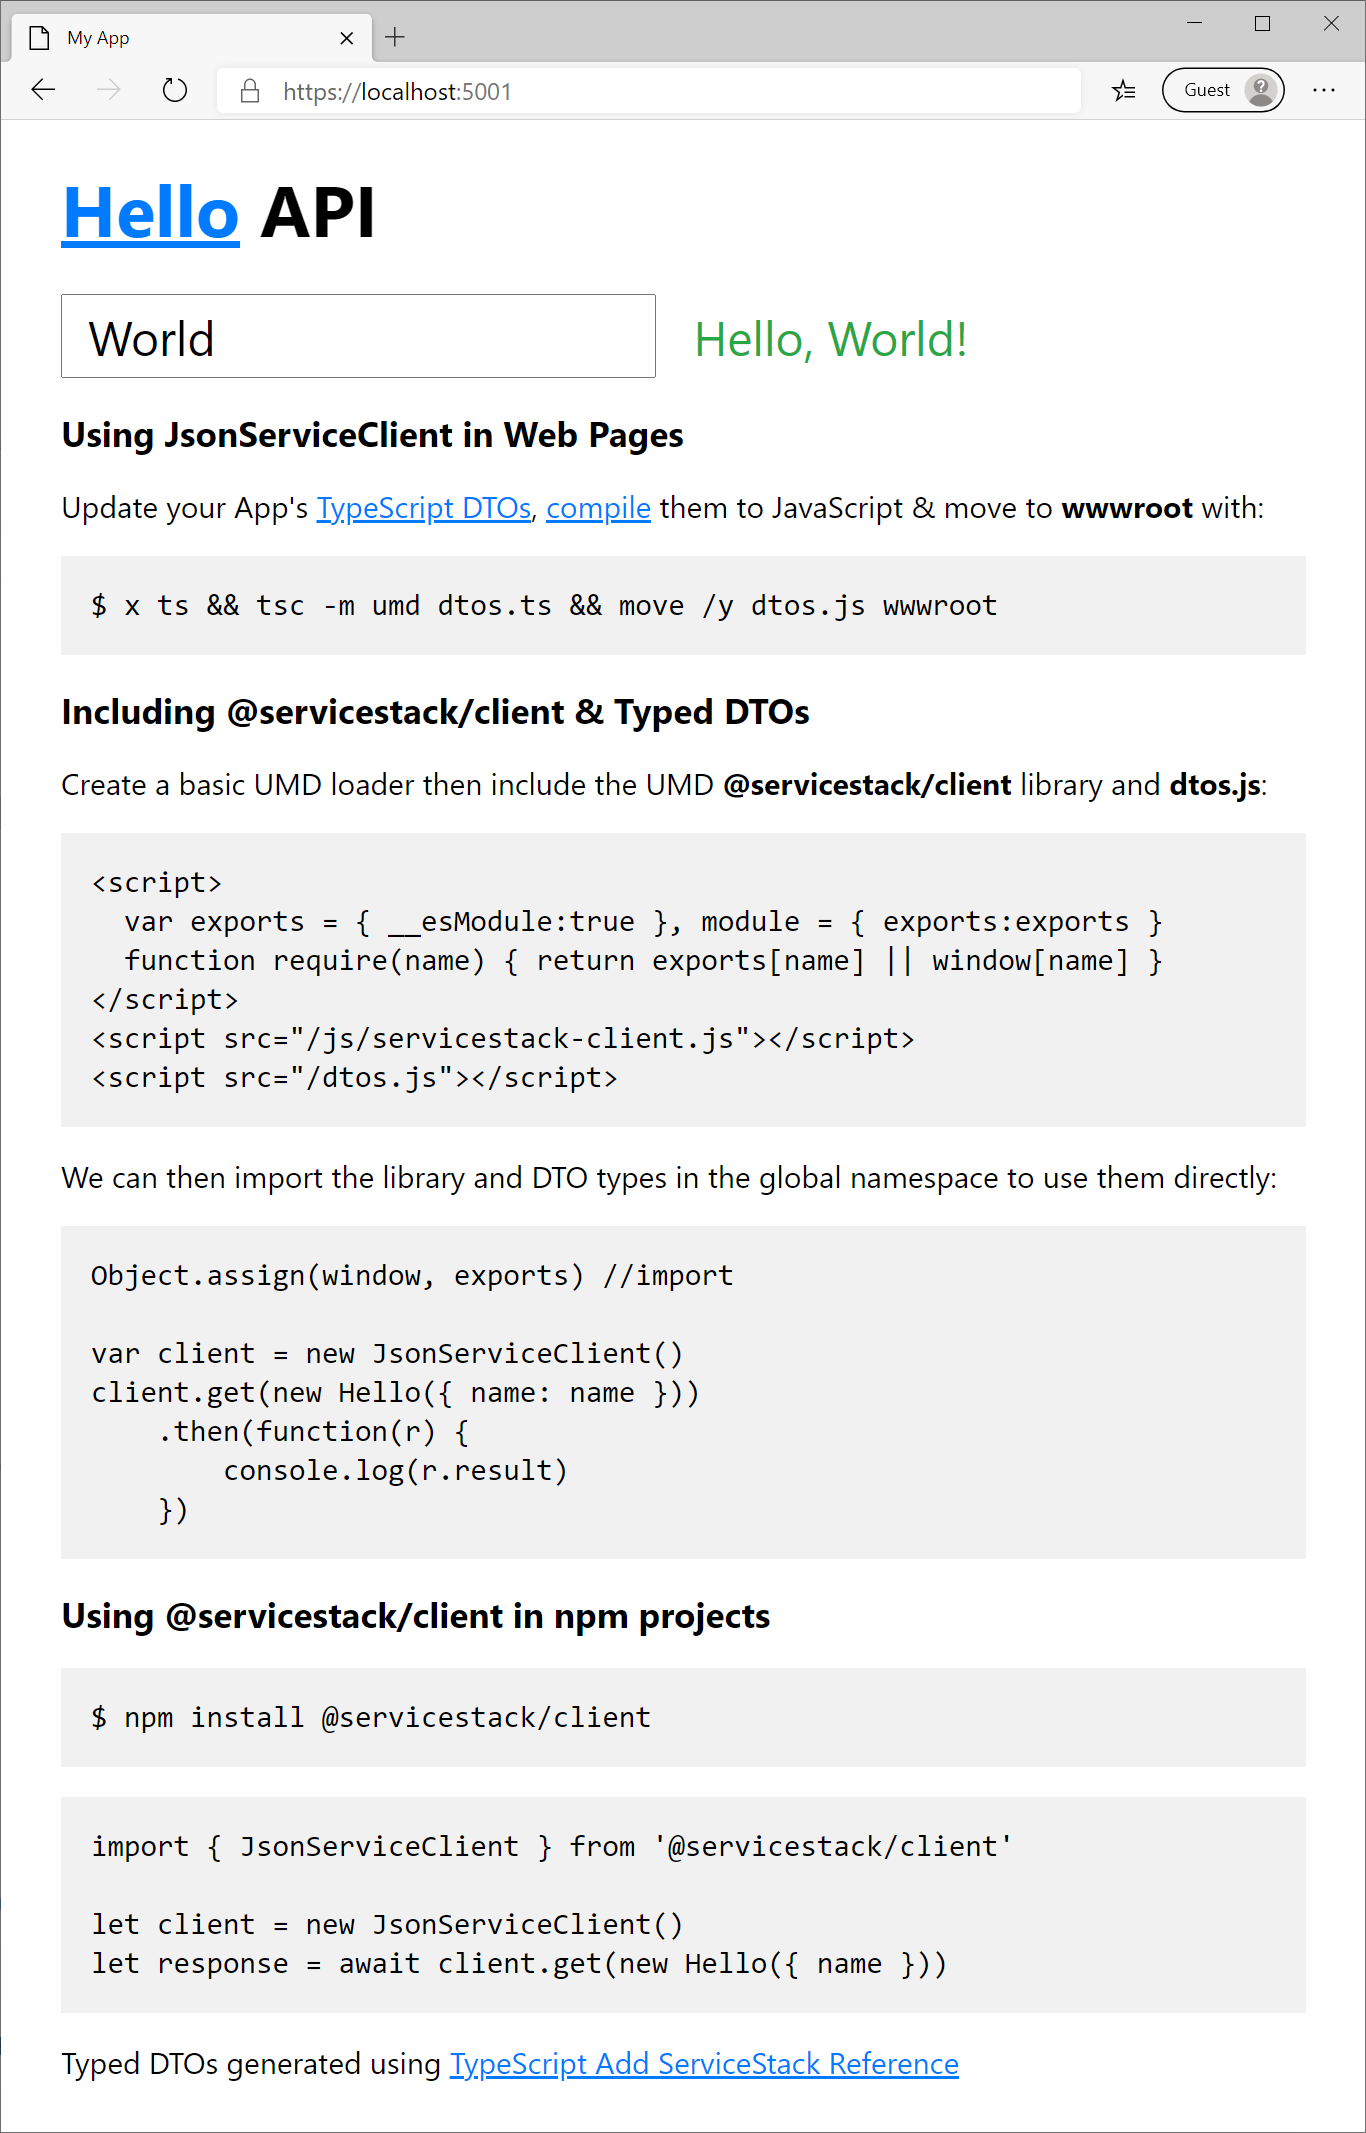
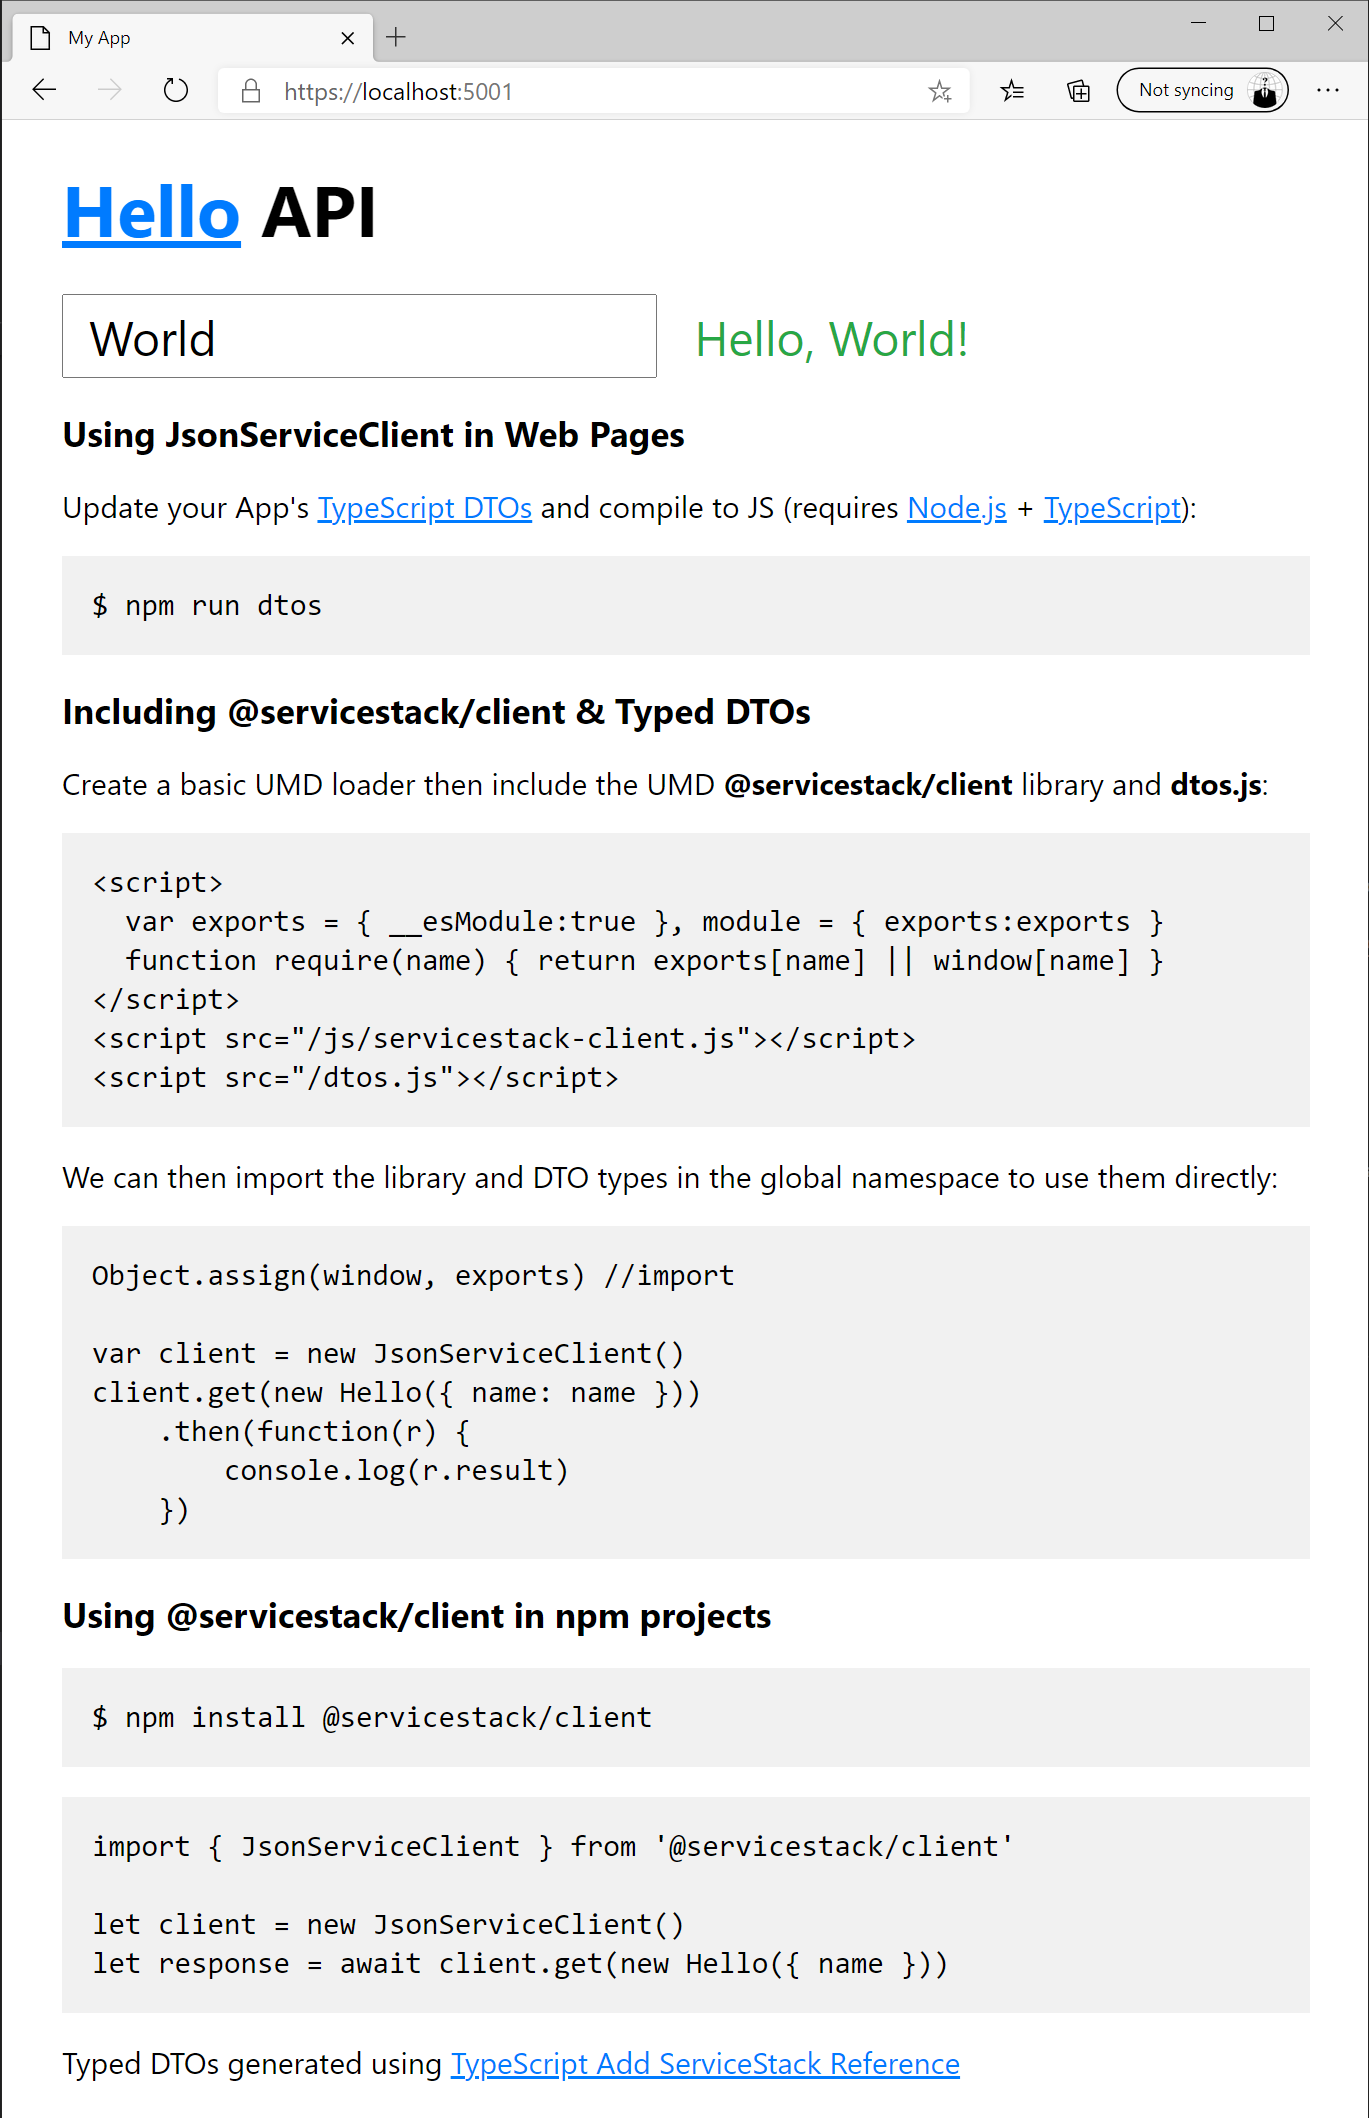
Update docs

diff --git a/docs/_documentation/Javascript-client.md b/docs/_documentation/Javascript-client.md
@@ -29,7 +29,7 @@ That uses the built-in `@servicestack/client` library's `JsonServiceClient` in a
 
 With a single command you can update your App's TypeScript DTOs, compile them to JavaScript & move them to `/wwwroot`:
 
-    $ x ts && tsc -m umd dtos.ts && move /y dtos.js wwwroot
+    $ npm run dtos
 
 To use them in your Web Page create a basic UMD loader and include the UMD `@servicestack/client` library & `dtos.js`:
 

diff --git a/docs/_documentation/Create-your-first-webservice.md b/docs/_documentation/Create-your-first-webservice.md
@@ -163,7 +163,7 @@ A **dep-free alternative** to jQuery that works in all modern browsers is to use
 
 Where you can update your App's server DTOs by transpiling them to JavaScript & moving to `/wwwroot`:
 
-    $ x ts && tsc -m umd dtos.ts && move /y dtos.js wwwroot
+    $ npm run dtos
 
 ![](https://raw.githubusercontent.com/ServiceStack/docs/master/docs/images/mix/init.png)
 
